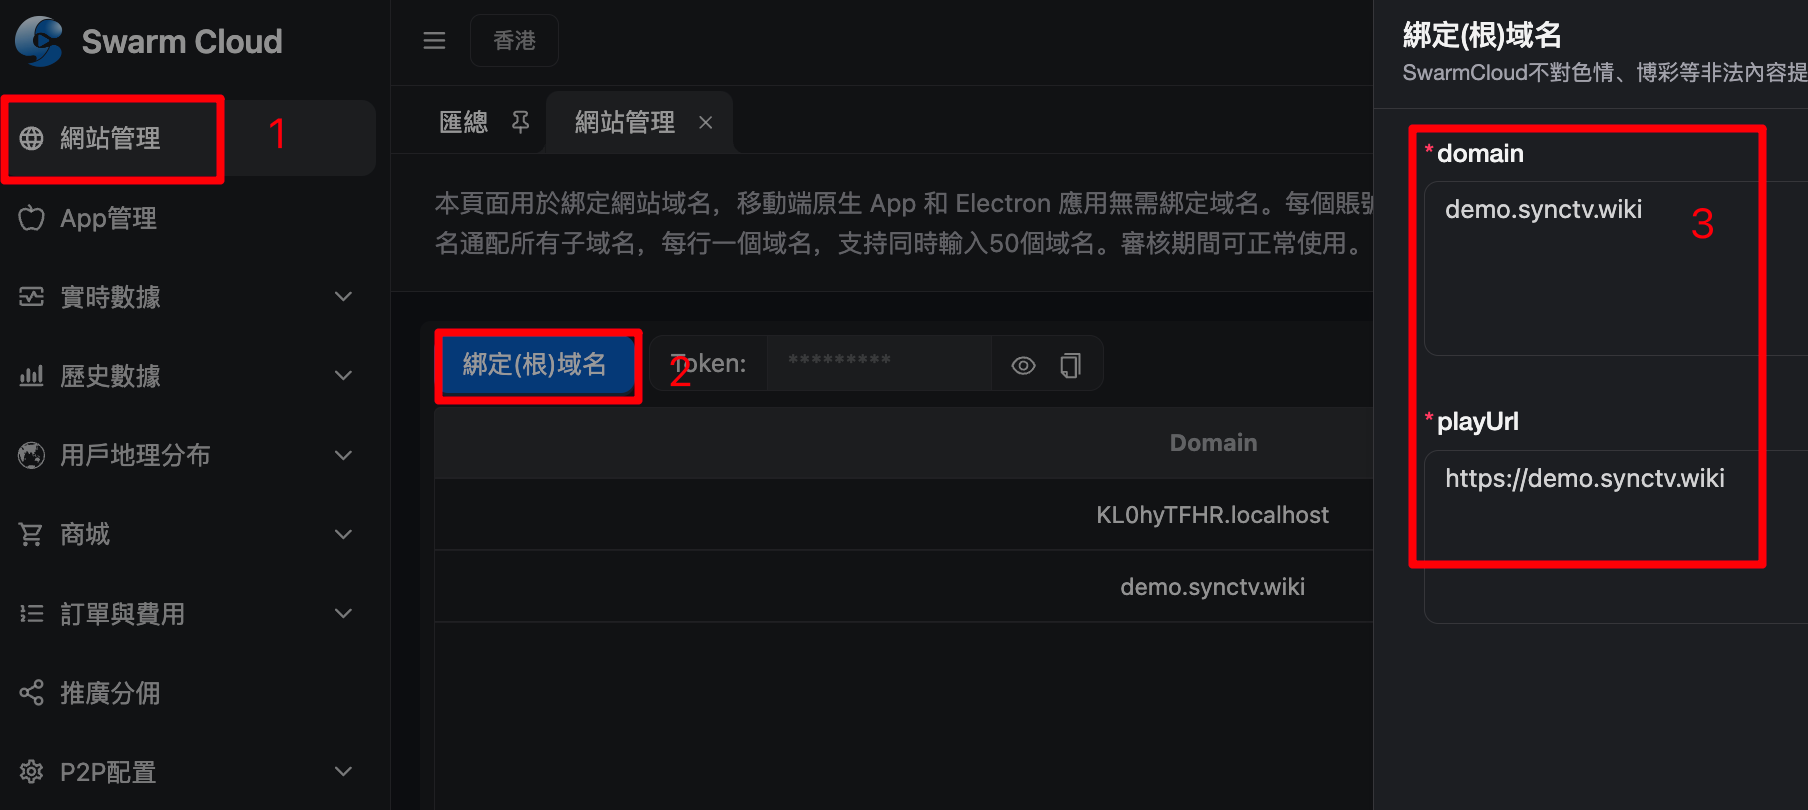
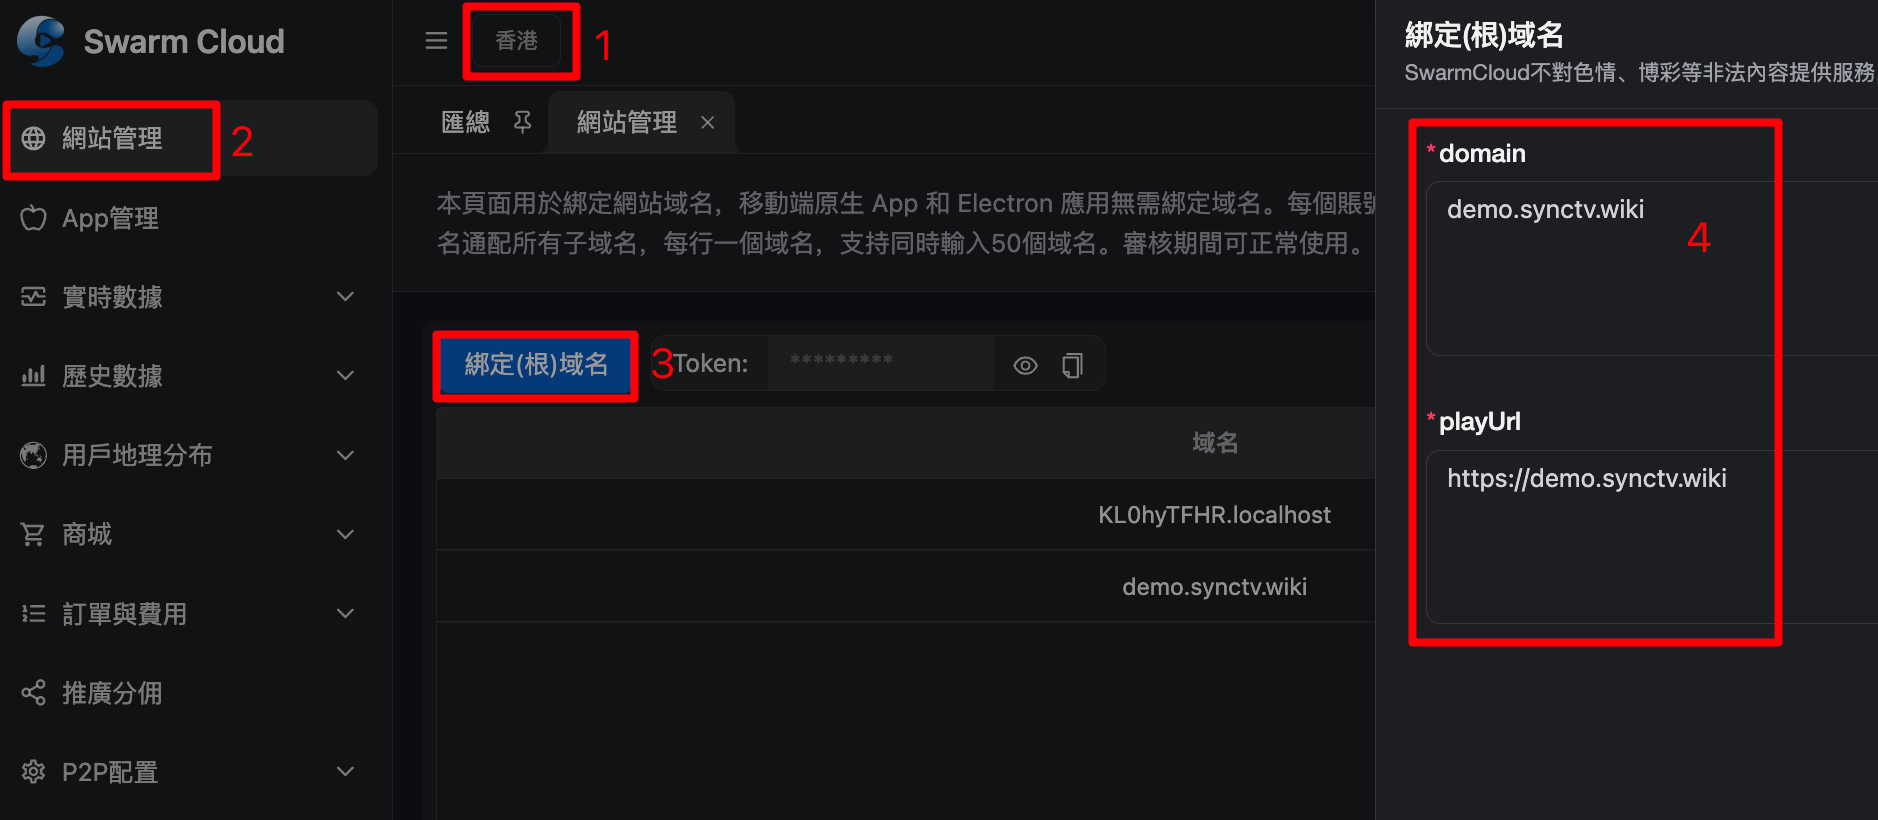
fix: docs

diff --git a/p2p.md b/p2p.md
@@ -10,6 +10,10 @@ When multiple users are watching the same video on SyncTV, the server needs to h
 
 SyncTV leverages P2P services provided by [SwarmCloud](https://swarmcloud.net/) to enable P2P video transmission.
 
-SwarmCloud requires no additional configuration - simply register an account on the [SwarmCloud Dashboard](https://dashboard.swarmcloud.net/#/signup?zone=p3&inviter=pyh1670605849%40gmail.com) and add your domain name.
+Simply register an account on [SwarmCloud Dashboard](https://dashboard.swarmcloud.net/#/signup?zone=p3&inviter=pyh1670605849%40gmail.com). If your domain is registered in mainland China, you can use domestic regions; otherwise, use overseas regions like `hk`. Then add your domain.
 
-<img width="350px" alt="p2p-cdnbye" src="/img/p2p/swarmcloud.png"/>
+<img width="350px" alt="p2p-cdnbye" src="/img/p2p/swarmcloud-en.png"/>
+
+Then go to the `System Settings` page in SyncTV's `Admin Panel` and change the `Swarm Cloud Region` to your corresponding region, such as `hk`.
+
+<img width="350px" alt="p2p-cdnbye" src="/img/p2p/zone.png"/>
